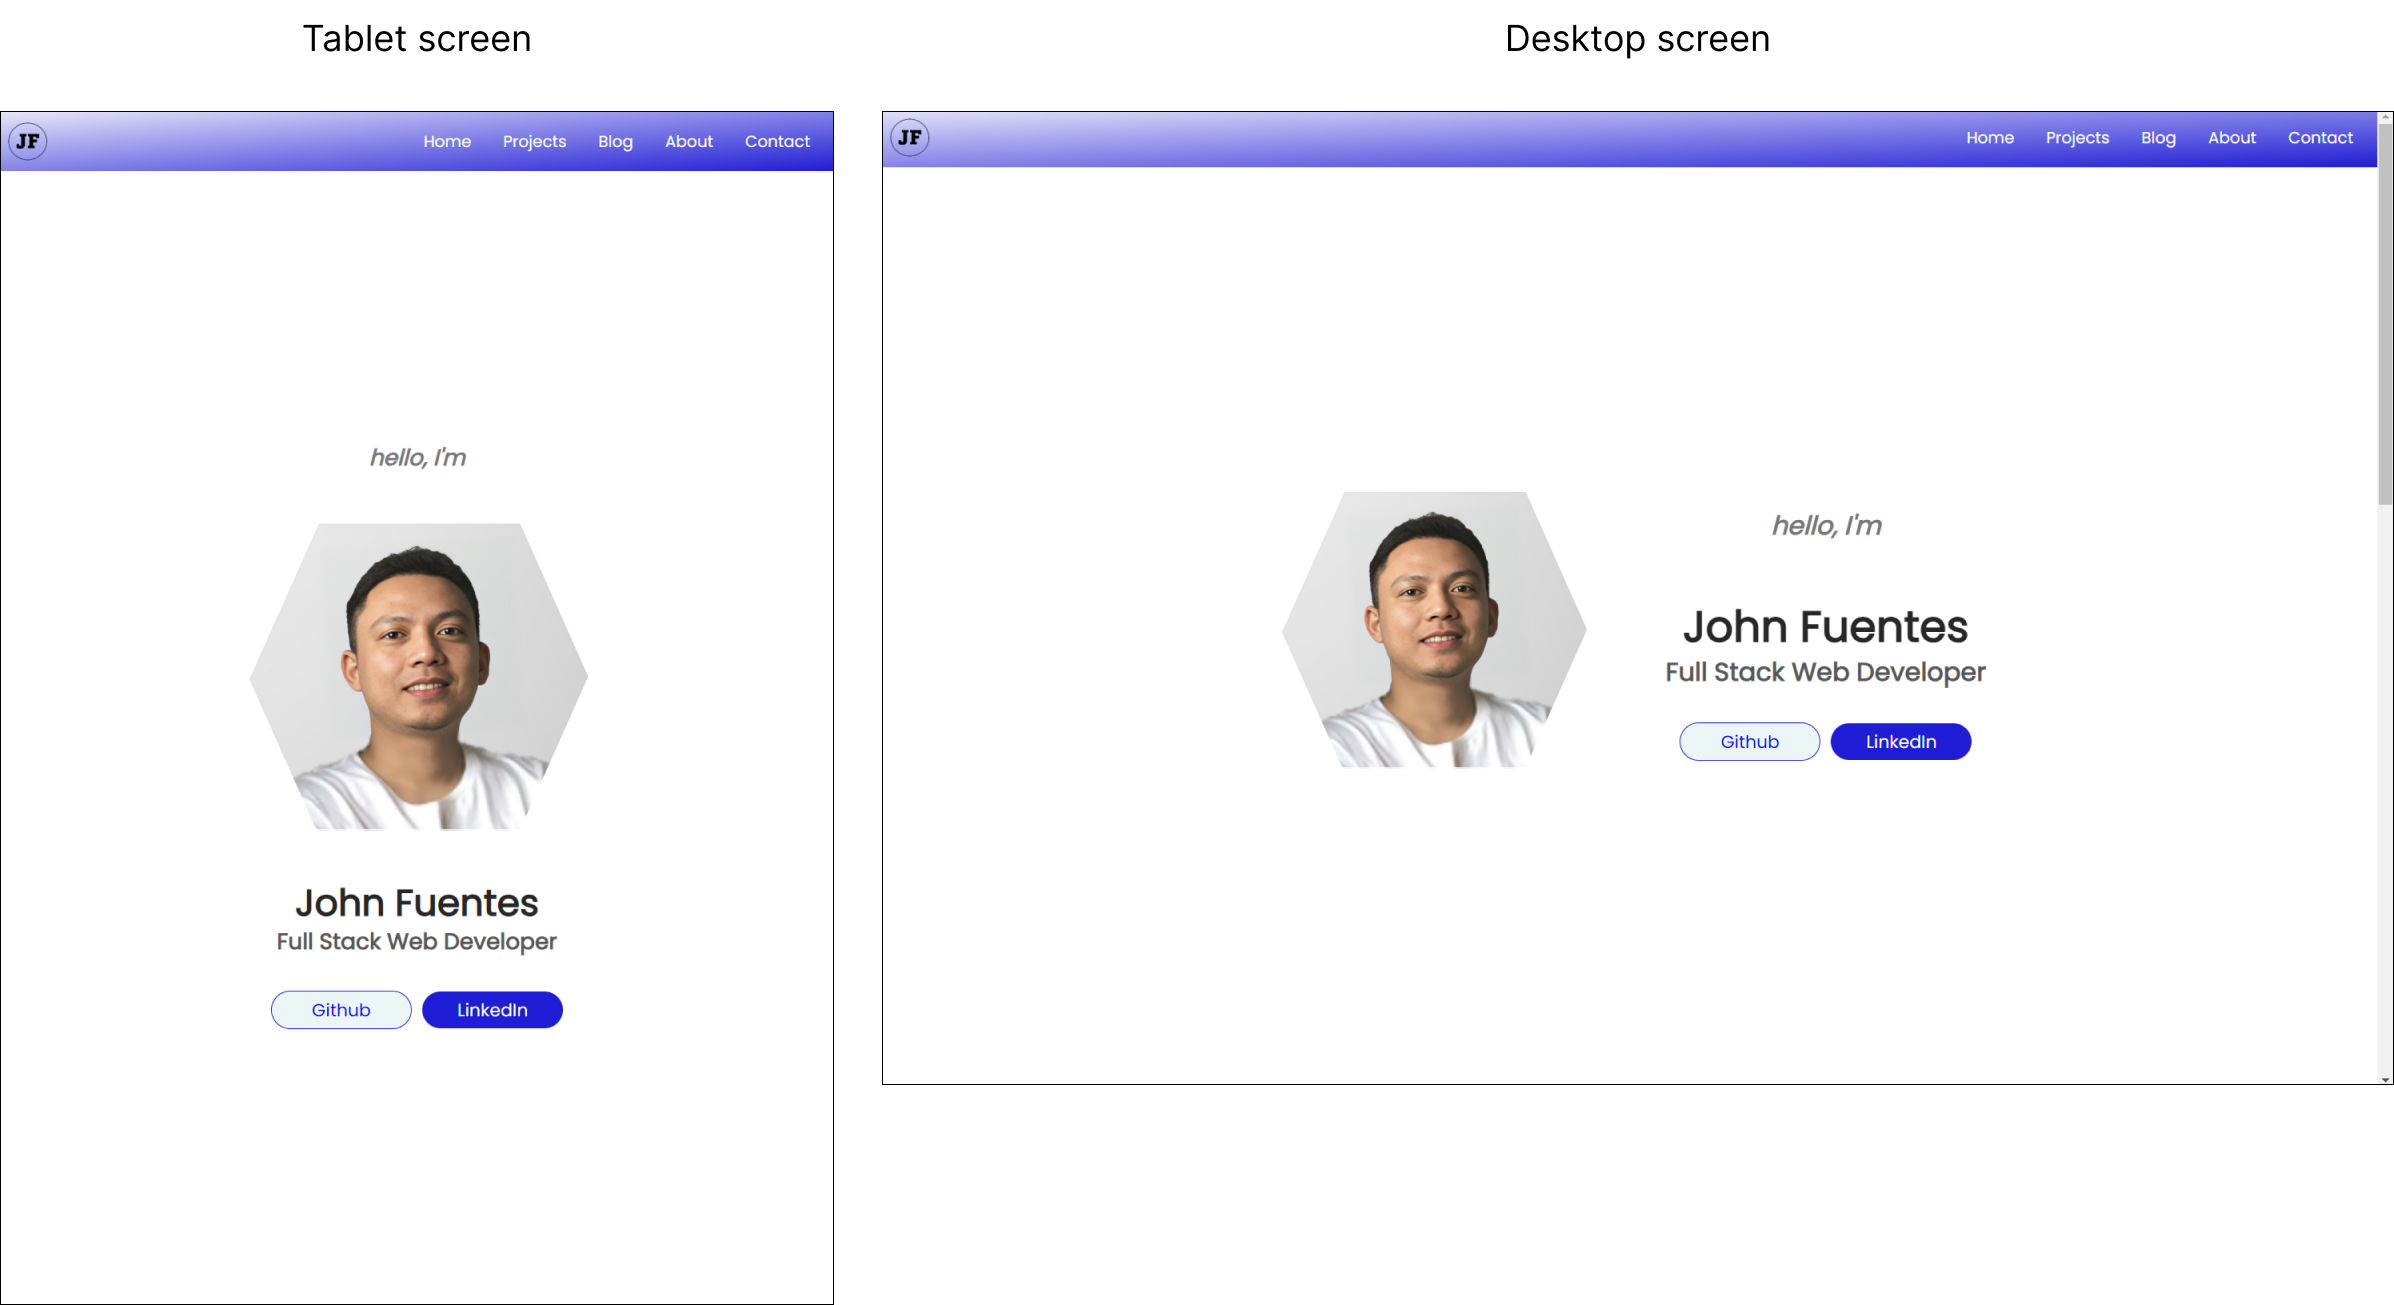
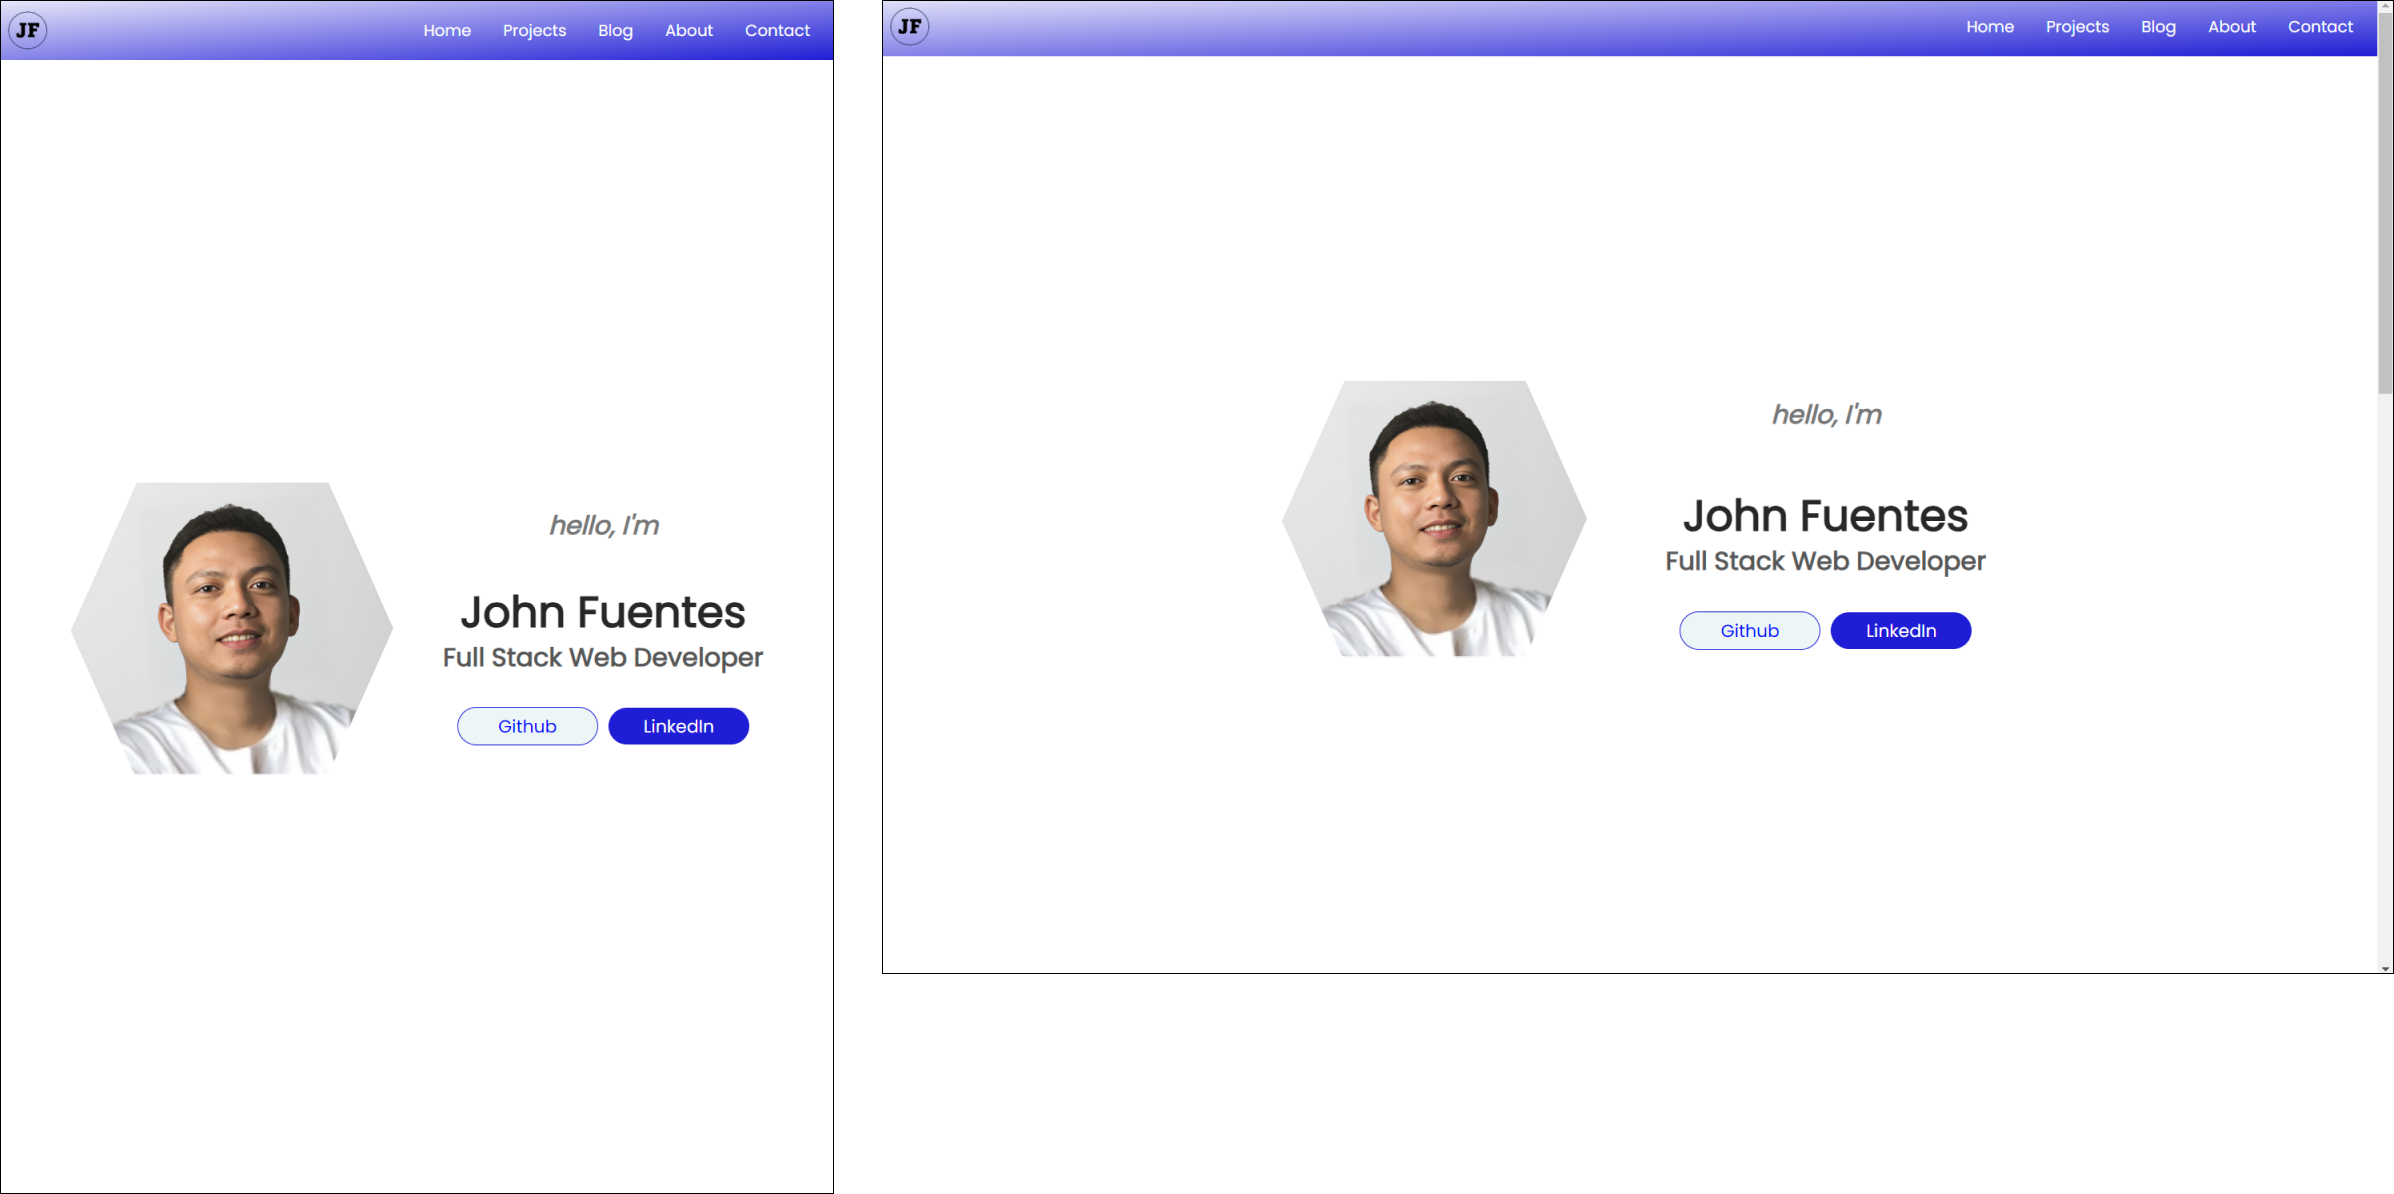
Updated markdown document

diff --git a/style.css b/style.css
@@ -341,6 +341,9 @@ nav {
     .hero h2 {
         font-size: var(--font-size-desktop-l);
     }
+    .hero > div {
+        gap: 0;
+    }
 }
 
 /* Responsiveness for landscape orientation of mobile phone */
@@ -409,6 +412,10 @@ section p {
     margin: 0 0.5em;
 }
 
+.projects > div > a {
+    margin-top: 1em;
+}
+
 .projects a:hover {
     color: blue;
 }
@@ -455,7 +462,7 @@ section p {
 }
 
 /* Responsiveness for desktop */
-@media only screen and (min-width: 850px) {
+@media only screen and (min-width: 760px) {
     
     /* This applies to all sections in home page except the hero section */
     .section-title {
@@ -508,7 +515,7 @@ section p {
 }
 
 /* Responsiveness for desktop viewport width */
-@media only screen and (min-width: 850px) {
+@media only screen and (min-width: 760px) {
 
     .skills-list {
         max-width: 850px;
@@ -606,6 +613,15 @@ section p {
     font-size: var(--font-size-mobile-m);
     margin-bottom: 0.5em;
     text-align: left;
+}
+
+.blog h2 {
+    font-size: var(--font-size-mobile-m);
+    margin-bottom: 0.5em;
+}
+
+.blogs article:nth-of-type(2) h2 {
+    margin-top: 1em;
 }
 
 .about-sub,
@@ -782,7 +798,7 @@ section p {
 }
 
 /* Responsiveness for desktop viewport width */
-@media only screen and (min-width: 850px) {
+@media only screen and (min-width: 760px) {
 
     .about h1, 
     .blogs h1,

diff --git a/READ.md b/READ.md
@@ -149,7 +149,7 @@ I placed the greetings "Hello, I'm" on top of the profile photo to signify my co
 
 Hexagon is used to enclose my profile photo because I want it to be unique. The usual profile photo is enclosed in circle.
 
-My name has the largest font size followed by my role to give emphasis on me as an aspiring web developer.
+My name has the largest font size followed by my role to give emphasis on me as an aspiring web developer. I tried different font family from Google Fonts and Poppins is so far the nicest font appropriate in my website.
 
 Next are the call to action buttons for my Github and LinkedIn profiles. I chose color blue for it is captivating to the eye. When the users see it, they might be interested to click the buttons and discover my activities in Github and LinkedIn.
 
@@ -157,13 +157,9 @@ Blue is also the color in header section. The navigation is initially hidden and
 
 The logo is black to match the color of my name in hero section. The logo and the 'home' item in navigation menu are linked to home page.
 
-<img src="./markdown-images/screenshot-home-hero-tablet-desktop.jpg" alt="Hero section of home page in tablet and desktop screens" width="700px">
+<img src="./markdown-images/screenshot-home-hero-tablet-desktop.jpg" alt="Other sections in home page for mobile, tablet and desktop screens" width="700px">
 
-Both tablet and desktop screens display the navigation menu and the hamburger icon is hidden. Media queries are used to implement responsiveness.
-
-In tablet screen (first image above), the buttons are now arranged horizontally.
-
-In desktop screen (second image above), it has already two columns in order to adapt in the large viewport width. On the left is the profile photo while all texts are on the right. The order has also changed since the greetings "hello, I'm" is now placed after the profile photo.
+Both tablet and desktop screens display the navigation menu and the hamburger icon is hidden. Media queries are used to implement responsiveness. The hero section has two columns now. On the left is the profile photo while all texts are on the right. The order has also changed since the greetings "hello, I'm" is now placed after the profile photo.
 
 #### Other sections (projects, education, contact and footer)
 
@@ -173,7 +169,7 @@ The other sections in home page are shown above.
 
 The projects section has background of gradient colors and each project is enclosed in a box with rounded corners to give emphasis. Two representative projects are showcased with a short description about the project. Each project has links to its website and Github repository; so I retained the hyperlink decoration on the texts. The screenshot image also links to the project's website. There is also a link at the bottom that will redirect to the 'projects page' if the user wanted to see my portfolio.
 
-Other sections are the skills, education and contact information. The background colors are in alternate to make it good to the eye when reading each section. Icon images are added so that users can easily identify the items since they are already familiar with them (e.g., Git, HTML, CSS).
+Other sections are the skills, education and contact information. The background colors are in alternate to make it good to the eye when reading each section. I decided to add all tech stack (not just HTML and CSS as the current topics) that I will learn throughout the bootcamp. Icon images are added so that users can easily identify the items since they are already familiar with them (e.g., Git, HTML, CSS).
 
 A semantic address tag is used in the email address. If clicked, it will automatically open the email application for user's convenience. If the phone number is clicked (in mobile screen), it will automatically dial the number.
 
@@ -197,6 +193,21 @@ Unlike the projects page, there is only one column in blog page as it is appropr
 
 In each blog post, semantic tags are used in author, date and image using address, time and figure tags, respectively. Under each post has a link called "back to top" which is useful if the user wants to check again the list of titles at the beginning of the page.
 
+### About Page
+
+<img src="./markdown-images/screenshot-about-page.jpg" alt="Projects page in mobile, tablet and desktop screens" width="700px">
+
+In mobile screen, all contents are arranged in column. In tablet and desktop, there are already two columns. Furthermore, in work history and education sections, the h1 headings are placed on the left while all information are on the right. I used grid to layout the responsiveness in this page. For the desktop screen, I set a maximum width so that the contents will not stretch to the whole page.
+
+<img src="./markdown-images/screenshot-contact-page.jpg" alt="Projects page in mobile, tablet and desktop screens" width="700px">
+
+The contact page is simple, contents are displayed at the center of page. A semantic address tag is used in the email address. If clicked, it will automatically open the email application for user's convenience. If the phone number is clicked (in mobile screen), it will automatically dial the number.
+
+### Landscape Orientation for mobile screen
+
+<img src="./markdown-images/screenshot-landscape-hero.jpg" alt="Projects page in mobile, tablet and desktop screens" width="400px">
+
+<img src="./markdown-images/screenshot-landscape.jpg" alt="Projects page in mobile, tablet and desktop screens" width="700px">
 
 
 
